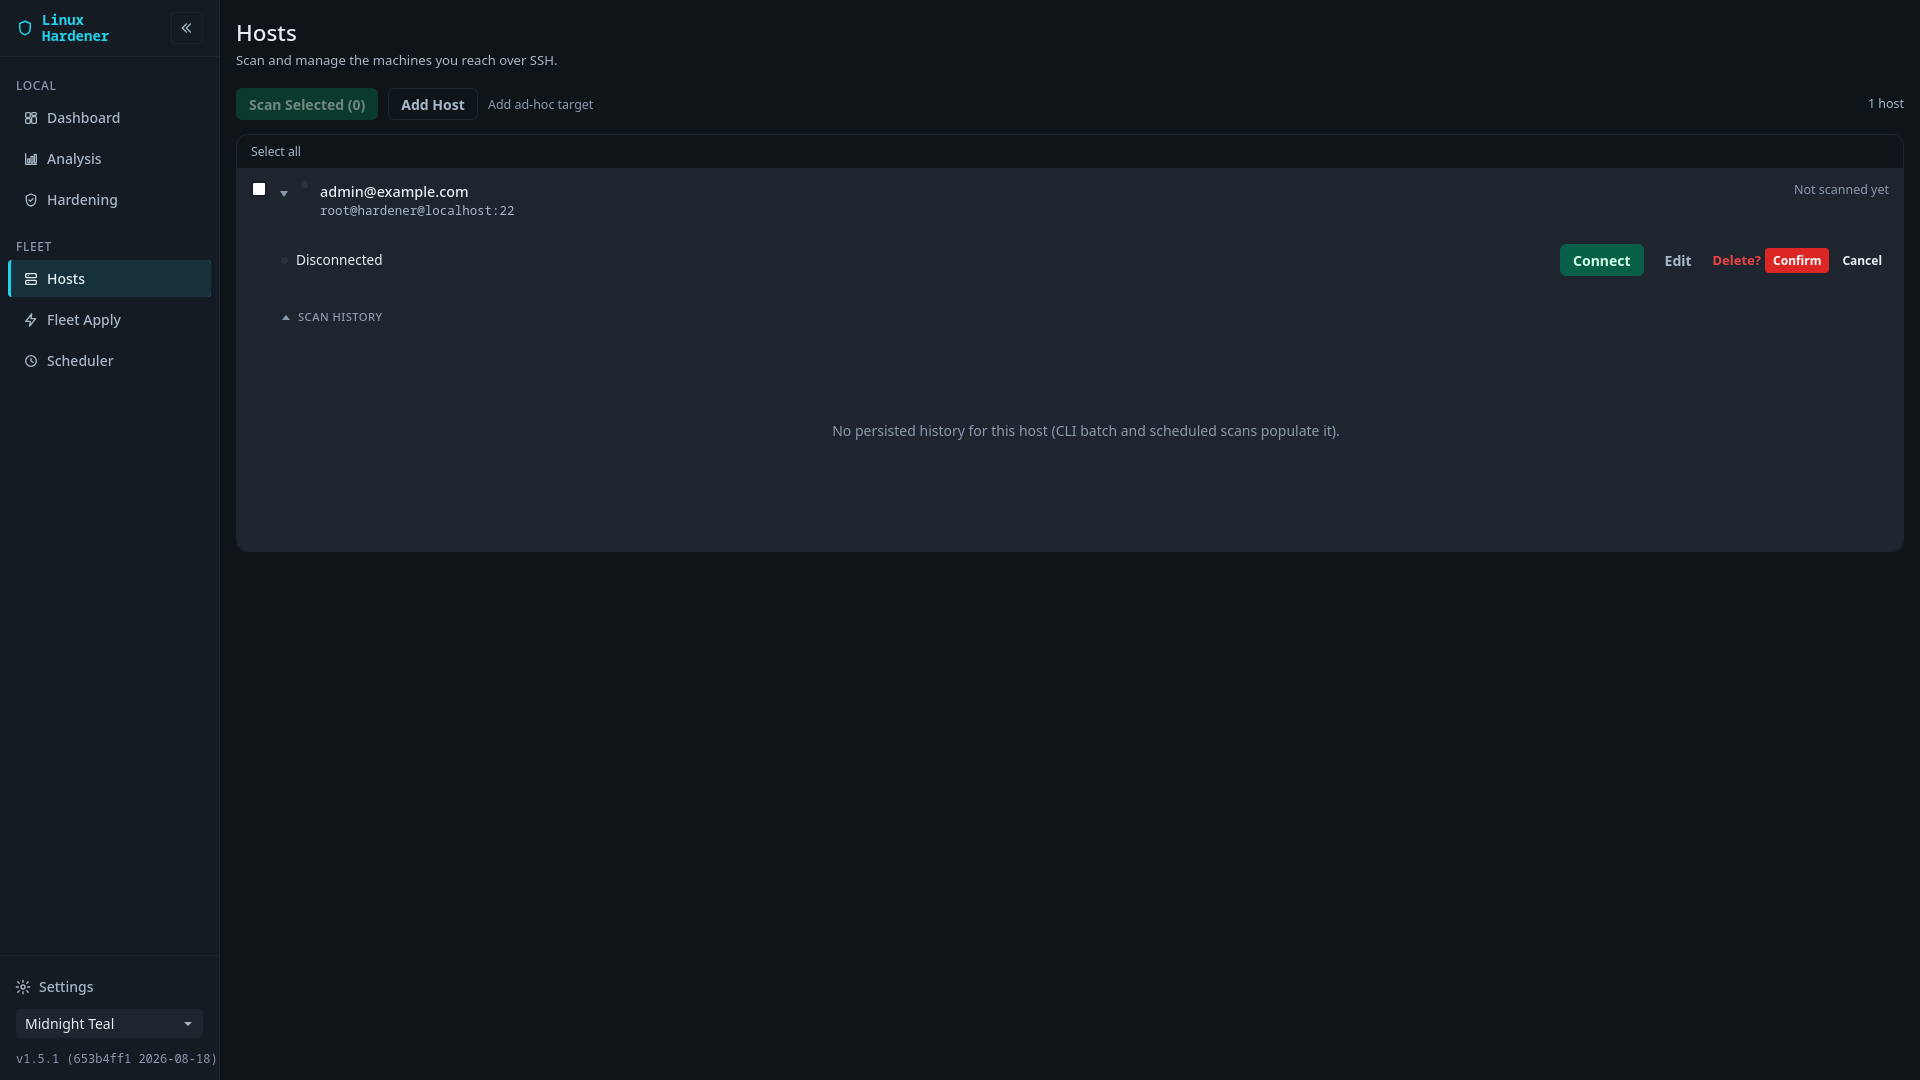
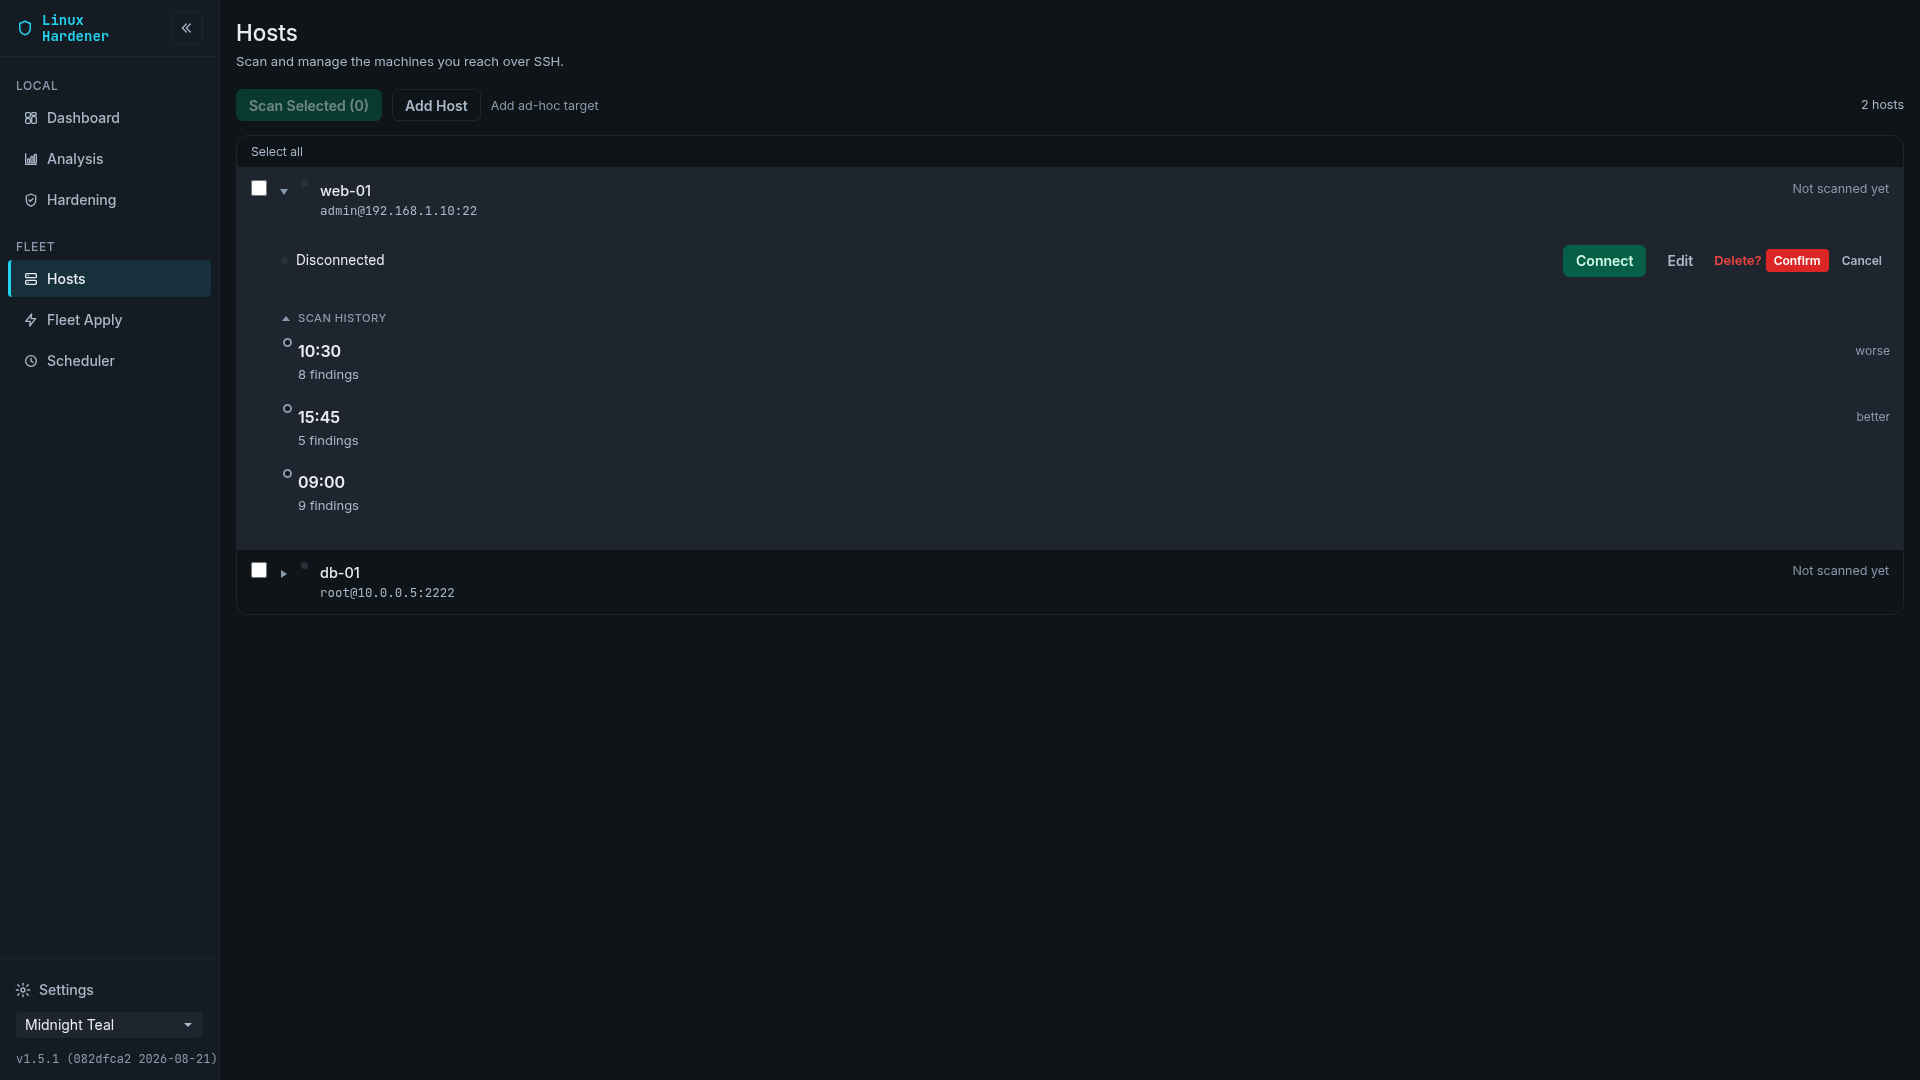
docs(readme): screenshots the harness can actually reproduce
The 23 shots in docs/assets/screenshots were captured at 653b4ff1 from a live
unprivileged scan through hgui, and every one showing a failed badge, an error
status, a failed host row, a fleet outcome error line or a modal was a shade or
a tier out after 04930f71 moved `.modal` down a surface tier and retuned the
critical colours. Recapturing them the same way needs a built desktop binary, a
compositor, a scratch XDG_CONFIG_HOME and 23 states clicked by hand, and the
result carries whatever the capturing machine's real configuration happens to
be.

They are now taken from the screenshot harness against the test fixture, so
the caption says so: web-01 and db-01 rather than a real host list, and no data
from anyone's system. Reproducible on any machine with a built dist/.

The harness could not do this before today, in two separate ways.

Its IPC fixture was `tauri-shim.js`, a second copy maintained only here. It
answered nine commands and returned `[]` for `list_remote_hosts`,
`get_checkpoints` and `get_scan_history`, so Hosts, Hardening History and Fleet
Apply rendered empty and 12 of the 23 states could not be reached at all; it
also stamped the header "v1.4.0" by hand, two releases after that stopped being
true. Nothing checked any of it, because nothing validates a fixture only this
harness uses. It is deleted. `build.py` now copies in `gui-tests/tauri-mock.js`,
which `validate_gui_mock_fixtures.py` holds to the Rust types on every
[…]

diff --git a/README.md b/README.md
@@ -211,7 +211,7 @@ The finding prints the command that copies the file into `/etc` for you. See the
   <img src="docs/assets/screenshots/analysis-findings.png" alt="Security Analysis: findings grouped by severity" width="49%">
 </p>
 
-<p align="center"><sub>Desktop application (Tauri and Leptos) on the Midnight Teal theme, from a live unprivileged scan, captured at 1.5.1 (653b4ff1). The Hosts and Scheduler screens are in <a href="docs/assets/screenshots/">docs/assets/screenshots</a>, along with the states these five do not reach: the finding detail expander, the per-control compliance view, the checkpoint timeline and its rollback confirmation, the expanded host panel, and the two Scheduler notes that appear only while scheduled scanning is off.</sub></p>
+<p align="center"><sub>The real Leptos/WASM interface on the Midnight Teal theme, captured at 1.5.1 (2026-08-21) against the test fixture rather than a live scan, which is why the hosts read <code>web-01</code> and <code>db-01</code>. The fixture is <code>gui-tests/tauri-mock.js</code>, held to the Rust types by <code>validate_gui_mock_fixtures.py</code> and driven by the 165-case Playwright suite, so these are reproducible on any machine and contain no data from anyone's system. The Hosts and Scheduler screens are in <a href="docs/assets/screenshots/">docs/assets/screenshots</a>, along with the states these five do not reach: the finding detail expander, the per-control compliance view, the checkpoint timeline and its rollback confirmation, the expanded host panel, and the two Scheduler notes that appear only while scheduled scanning is off.</sub></p>
 
 ---
 
@@ -538,4 +538,4 @@ Drawing on [Lynis](https://cisofy.com/lynis/),
 **Contact**: tidynest@proton.me
 **Repository**: https://github.com/tidynest/linux-hardener
 
-**Last Updated**: 2026-08-20
+**Last Updated**: 2026-08-21
